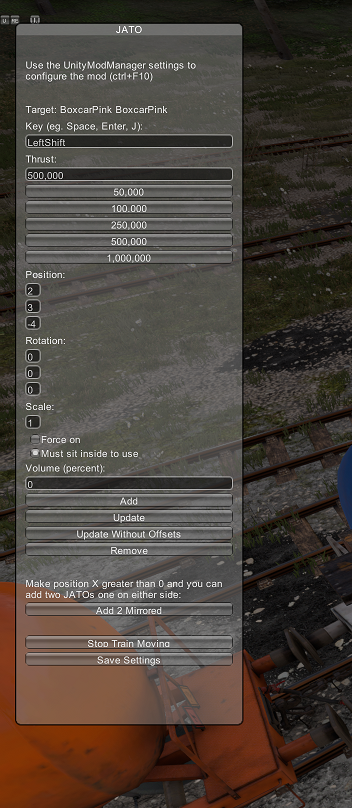
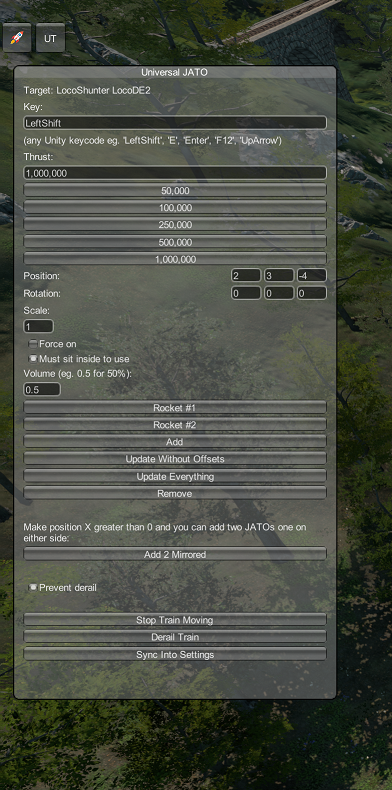
ModPanel dep, remove dep, add prevent derail and make derail

diff --git a/DerailValleyUniversalJato/InGameWindow.cs b/DerailValleyUniversalJato/InGameWindow.cs
@@ -1,10 +1,12 @@
 using System;
 using UnityEngine;
 using UnityModManagerNet;
+using DerailValleyModToolbar;
+using DV;
 
 namespace DerailValleyUniversalJato;
 
-public class InGameWindow : MonoBehaviour
+public class InGameWindow : MonoBehaviour, IModToolbarPanel
 {
     private UnityModManager.ModEntry.ModLogger Logger => Main.ModEntry.Logger;
     private bool showGui = false;
@@ -24,37 +26,6 @@ public class InGameWindow : MonoBehaviour
     private string _scaleText = NewSettings.Scale.ToString();
     private string _volumeText = NewSettings.SoundVolume.ToString();
     private int? _selectedComponentIndex = null;
-
-    public void Show()
-    {
-
-    }
-
-    void OnGUI()
-    {
-        if (PlayerManager.PlayerTransform == null)
-        {
-            showGui = false;
-            return;
-        }
-
-        if (!VRManager.IsVREnabled() && ScreenspaceMouse.Instance && !ScreenspaceMouse.Instance.on) return;
-
-        if (GUI.Button(buttonRect, "UJ", new GUIStyle(GUI.skin.button) { fontSize = 16, clipping = TextClipping.Overflow })) showGui = !showGui;
-
-        if (showGui)
-        {
-            float scale = 1.5f;
-            Vector2 pivot = Vector2.zero; // top-left corner
-
-            Matrix4x4 oldMatrix = GUI.matrix;
-            GUI.matrix = Matrix4x4.TRS(Vector3.zero, Quaternion.identity, new Vector3(scale, scale, 1f));
-
-            windowRect = GUILayout.Window(700, windowRect, Window, "JATO");
-
-            GUI.matrix = oldMatrix;
-        }
-    }
 
     (Transform transform, Rigidbody Rigidbody, TrainCar trainCar)? GetJatoTargetInfo()
     {
@@ -134,11 +105,32 @@ public class InGameWindow : MonoBehaviour
         trainCar.StopMovement();
     }
 
-    void Window(int windowId)
+    void DerailTrain()
     {
-        scrollPosition = GUILayout.BeginScrollView(scrollPosition, GUILayout.Width(270 + GUI.skin.verticalScrollbar.fixedWidth), GUILayout.Height(scrollRect.height + GUI.skin.box.margin.vertical), GUILayout.MaxHeight(Screen.height - 130));
-        GUILayout.BeginVertical();
+        var target = GetJatoTargetInfo();
 
+        if (target == null)
+            return;
+
+        var (transform, rigidbody, trainCar) = target.Value;
+
+        Logger.Log("Derail train");
+
+        trainCar.Derail();
+    }
+
+    private void EnableNoDerail()
+    {
+        Globals.G.GameParams.DerailStressThreshold = float.PositiveInfinity;
+    }
+
+    private void DisableNoDerail()
+    {
+        Globals.G.GameParams.DerailStressThreshold = Globals.G.GameParams.defaultStressThreshold;
+    }
+
+    public void Window(Rect rect)
+    {
         var target = GetJatoTargetInfo();
 
         GUILayout.Label($"Target: {(target != null ? $"{target.Value.trainCar.carType} {target.Value.trainCar.carLivery.id}" : "(none)")}");
@@ -150,7 +142,7 @@ public class InGameWindow : MonoBehaviour
         {
             NewSettings.KeyCode = keyCodeResult;
         }
-        GUILayout.Label($"(any Unity keycode eg. 'LeftShift', 'E', 'Enter', 'F12')");
+        GUILayout.Label($"(any Unity keycode eg. 'LeftShift', 'E', 'Enter', 'F12', 'UpArrow')");
 
         GUILayout.Label($"Thrust:");
         _thrustText = GUILayout.TextField(_thrustText);
@@ -170,6 +162,7 @@ public class InGameWindow : MonoBehaviour
             }
         }
 
+        GUILayout.BeginHorizontal();
         GUILayout.Label($"Position:");
 
         _positionXText = GUILayout.TextField(_positionXText, GUILayout.Width(40f));
@@ -189,7 +182,9 @@ public class InGameWindow : MonoBehaviour
         {
             NewSettings.PositionZ = positionZResult;
         }
+        GUILayout.EndHorizontal();
 
+        GUILayout.BeginHorizontal();
         GUILayout.Label($"Rotation:");
 
         _rotationXText = GUILayout.TextField(_rotationXText, GUILayout.Width(40f));
@@ -209,6 +204,7 @@ public class InGameWindow : MonoBehaviour
         {
             NewSettings.RotationZ = rotationZResult;
         }
+        GUILayout.EndHorizontal();
 
         GUILayout.Label($"Scale:");
 
@@ -221,8 +217,8 @@ public class InGameWindow : MonoBehaviour
         NewSettings.ForceOn = GUILayout.Toggle(NewSettings.ForceOn, "Force on");
         NewSettings.RequireSittingInside = GUILayout.Toggle(NewSettings.RequireSittingInside, "Must sit inside to use");
 
-        GUILayout.Label($"Volume (percent):");
-        _volumeText = GUILayout.TextField(_volumeText);
+        GUILayout.Label($"Volume (eg. 0.5 for 50%):");
+        _volumeText = GUILayout.TextField(_volumeText, GUILayout.Width(50f));
         if (float.TryParse(_rotationZText, out float volumeResult))
         {
             NewSettings.SoundVolume = volumeResult;
@@ -289,20 +285,26 @@ public class InGameWindow : MonoBehaviour
 
         GUILayout.Label($"");
 
+        Main.settings.PreventDerail = GUILayout.Toggle(Main.settings.PreventDerail, "Prevent derail");
+
+        if (Main.settings.PreventDerail)
+            EnableNoDerail();
+        else
+            DisableNoDerail();
+
+        GUILayout.Label($"");
+
         if (GUILayout.Button("Stop Train Moving"))
         {
             StopTrainMoving();
         }
-        if (GUILayout.Button("Save Settings"))
+        if (GUILayout.Button("Derail Train"))
         {
-            Main.Settings.LastJatoSettings = NewSettings.Clone();
+            DerailTrain();
         }
-
-        GUILayout.EndVertical();
-        if (Event.current.type == EventType.Repaint)
+        if (GUILayout.Button("Sync Into Settings"))
         {
-            scrollRect = GUILayoutUtility.GetLastRect();
+            Main.settings.LastJatoSettings = NewSettings.Clone();
         }
-        GUILayout.EndScrollView();
     }
 }

diff --git a/DerailValleyUniversalJato/Main.cs b/DerailValleyUniversalJato/Main.cs
@@ -3,13 +3,14 @@ using System.Reflection;
 using HarmonyLib;
 using UnityModManagerNet;
 using UnityEngine;
+using DerailValleyModToolbar;
 
 namespace DerailValleyUniversalJato;
 
 public static class Main
 {
     public static UnityModManager.ModEntry ModEntry;
-    public static Settings Settings;
+    public static Settings settings;
     private static GameObject _inGameWindow;
 
     private static bool Load(UnityModManager.ModEntry modEntry)
@@ -19,20 +20,26 @@ public static class Main
         Harmony? harmony = null;
         try
         {
-            Settings = Settings.Load<Settings>(modEntry);
-
-            if (Settings.LastJatoSettings != null)
-                InGameWindow.NewSettings = Settings.LastJatoSettings.Clone();
-
+            settings = Settings.Load<Settings>(modEntry);
             modEntry.OnGUI = OnGUI;
             modEntry.OnSaveGUI = OnSaveGUI;
+
+            if (settings.LastJatoSettings != null)
+                InGameWindow.NewSettings = settings.LastJatoSettings.Clone();
 
             harmony = new Harmony(modEntry.Info.Id);
             harmony.PatchAll(Assembly.GetExecutingAssembly());
 
-            _inGameWindow = new GameObject("DerailValleyUniversalJato_CustomWindow");
-            var windowComp = _inGameWindow.AddComponent<InGameWindow>();
-            UnityEngine.Object.DontDestroyOnLoad(_inGameWindow);
+            ModToolbarAPI
+                .Register(modEntry)
+                .AddPanelControl(
+                    label: "Universal JATO",
+                    icon: "icon.png",
+                    tooltip: "Configure Universal JATO",
+                    type: typeof(InGameWindow),
+                    title: "Universal JATO",
+                    width: 400)
+                .Finish();
 
             ModEntry.Logger.Log("DerailValleyUniversalJato started");
         }
@@ -47,17 +54,14 @@ public static class Main
         return true;
     }
 
-    private static void OnGUI(UnityModManager.ModEntry modEntry)
+    static void OnGUI(UnityModManager.ModEntry modEntry)
     {
-        GUILayout.Label("Mod Settings", GUI.skin.label);
-
-        // GUILayout.Label("How often to check if we need to emit (in seconds):");
-        // Settings.CheckIntervalSeconds = float.Parse(GUILayout.TextField(Settings.CheckIntervalSeconds.ToString()));
+        settings.Draw(modEntry);
     }
 
-    private static void OnSaveGUI(UnityModManager.ModEntry modEntry)
+    static void OnSaveGUI(UnityModManager.ModEntry modEntry)
     {
-        Settings.Save(modEntry);
+        settings.Save(modEntry);
     }
 
     private static bool Unload(UnityModManager.ModEntry entry)

diff --git a/DerailValleyUniversalJato/Settings.cs b/DerailValleyUniversalJato/Settings.cs
@@ -3,13 +3,17 @@ using UnityModManagerNet;
 
 namespace DerailValleyUniversalJato;
 
-public class Settings : UnityModManager.ModSettings
+public class Settings : UnityModManager.ModSettings, IDrawable
 {
     public JatoSettings? LastJatoSettings;
-    public bool ShowDebugStuff = false;
+    [Draw] public bool PreventDerail = false;
 
     public override void Save(UnityModManager.ModEntry modEntry)
     {
         Save(this, modEntry);
+    }
+
+    public void OnChange()
+    {
     }
 }

diff --git a/README.md b/README.md
@@ -10,6 +10,8 @@ A mod for the game [Derail Valley](https://store.steampowered.com/app/588030/Der
 
 Download the zip and use Unity Mod Manager to install it.
 
+**Depends on [DerailValleyModToolbar](https://github.com/imagitama/derail-valley-mod-toolbar)**
+
 ## How to use
 
 1. Press alt to open the in-game UI
@@ -17,8 +19,6 @@ Download the zip and use Unity Mod Manager to install it.
 3. Configure and add
 
 Default key is "LeftShift"
-
-I strongly recommend you add [DV Utilities](https://www.nexusmods.com/derailvalley/mods/631) to disable derailment!
 
 ## Known issues
 

diff --git a/CHANGELOG.md b/CHANGELOG.md
@@ -1,3 +1,10 @@
+# 1.0.0
+
+- added dependency on `DerailValleyModToolbar`
+- removed unused dependency `CommsRadioAPI`
+- added "derail train" button
+- added "prevent derail" checkbox
+
 # 0.0.1
 
 Initial version.
